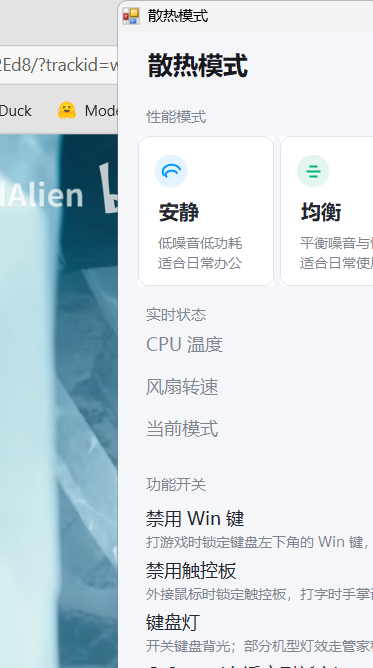
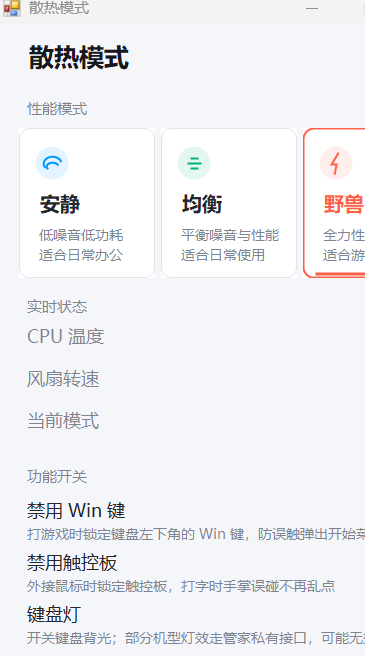
Replace screenshot with PrintWindow capture: window content only

diff --git a/README.md b/README.md
@@ -4,7 +4,7 @@
 
 原生 C# WinForms，无 WebView、无 Python、无 Node，直调 WMI，单文件编译。
 
-![FanApp 截图](docs/fanapp-v4-light.png?v=2)
+![FanApp 截图](docs/fanapp-v4-light.png?v=3)
 
 ## 功能
 
